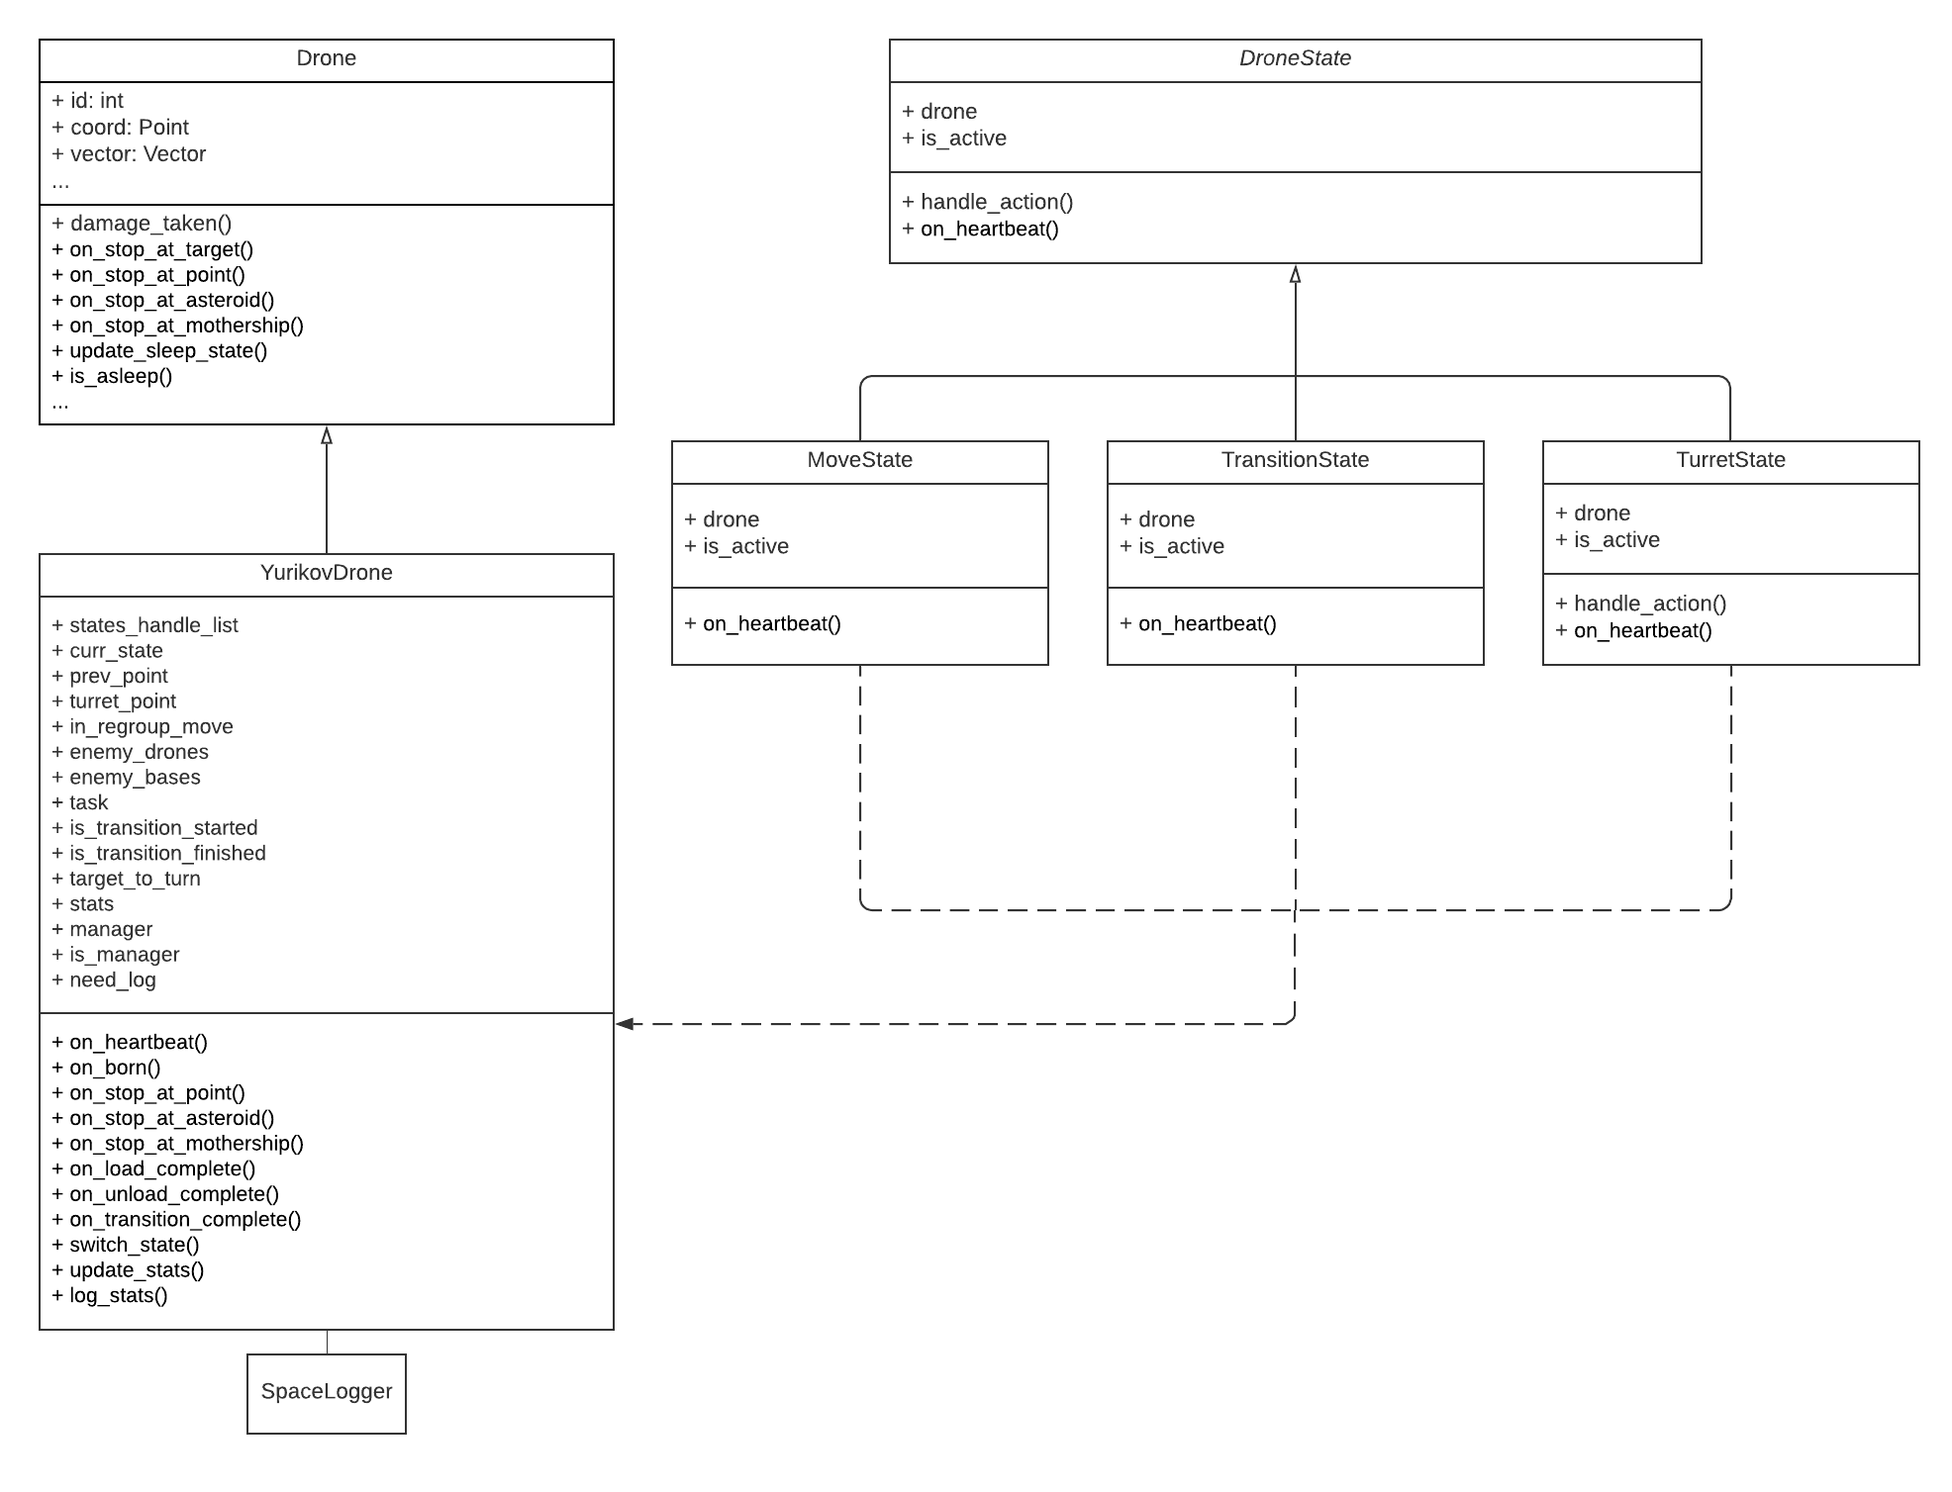
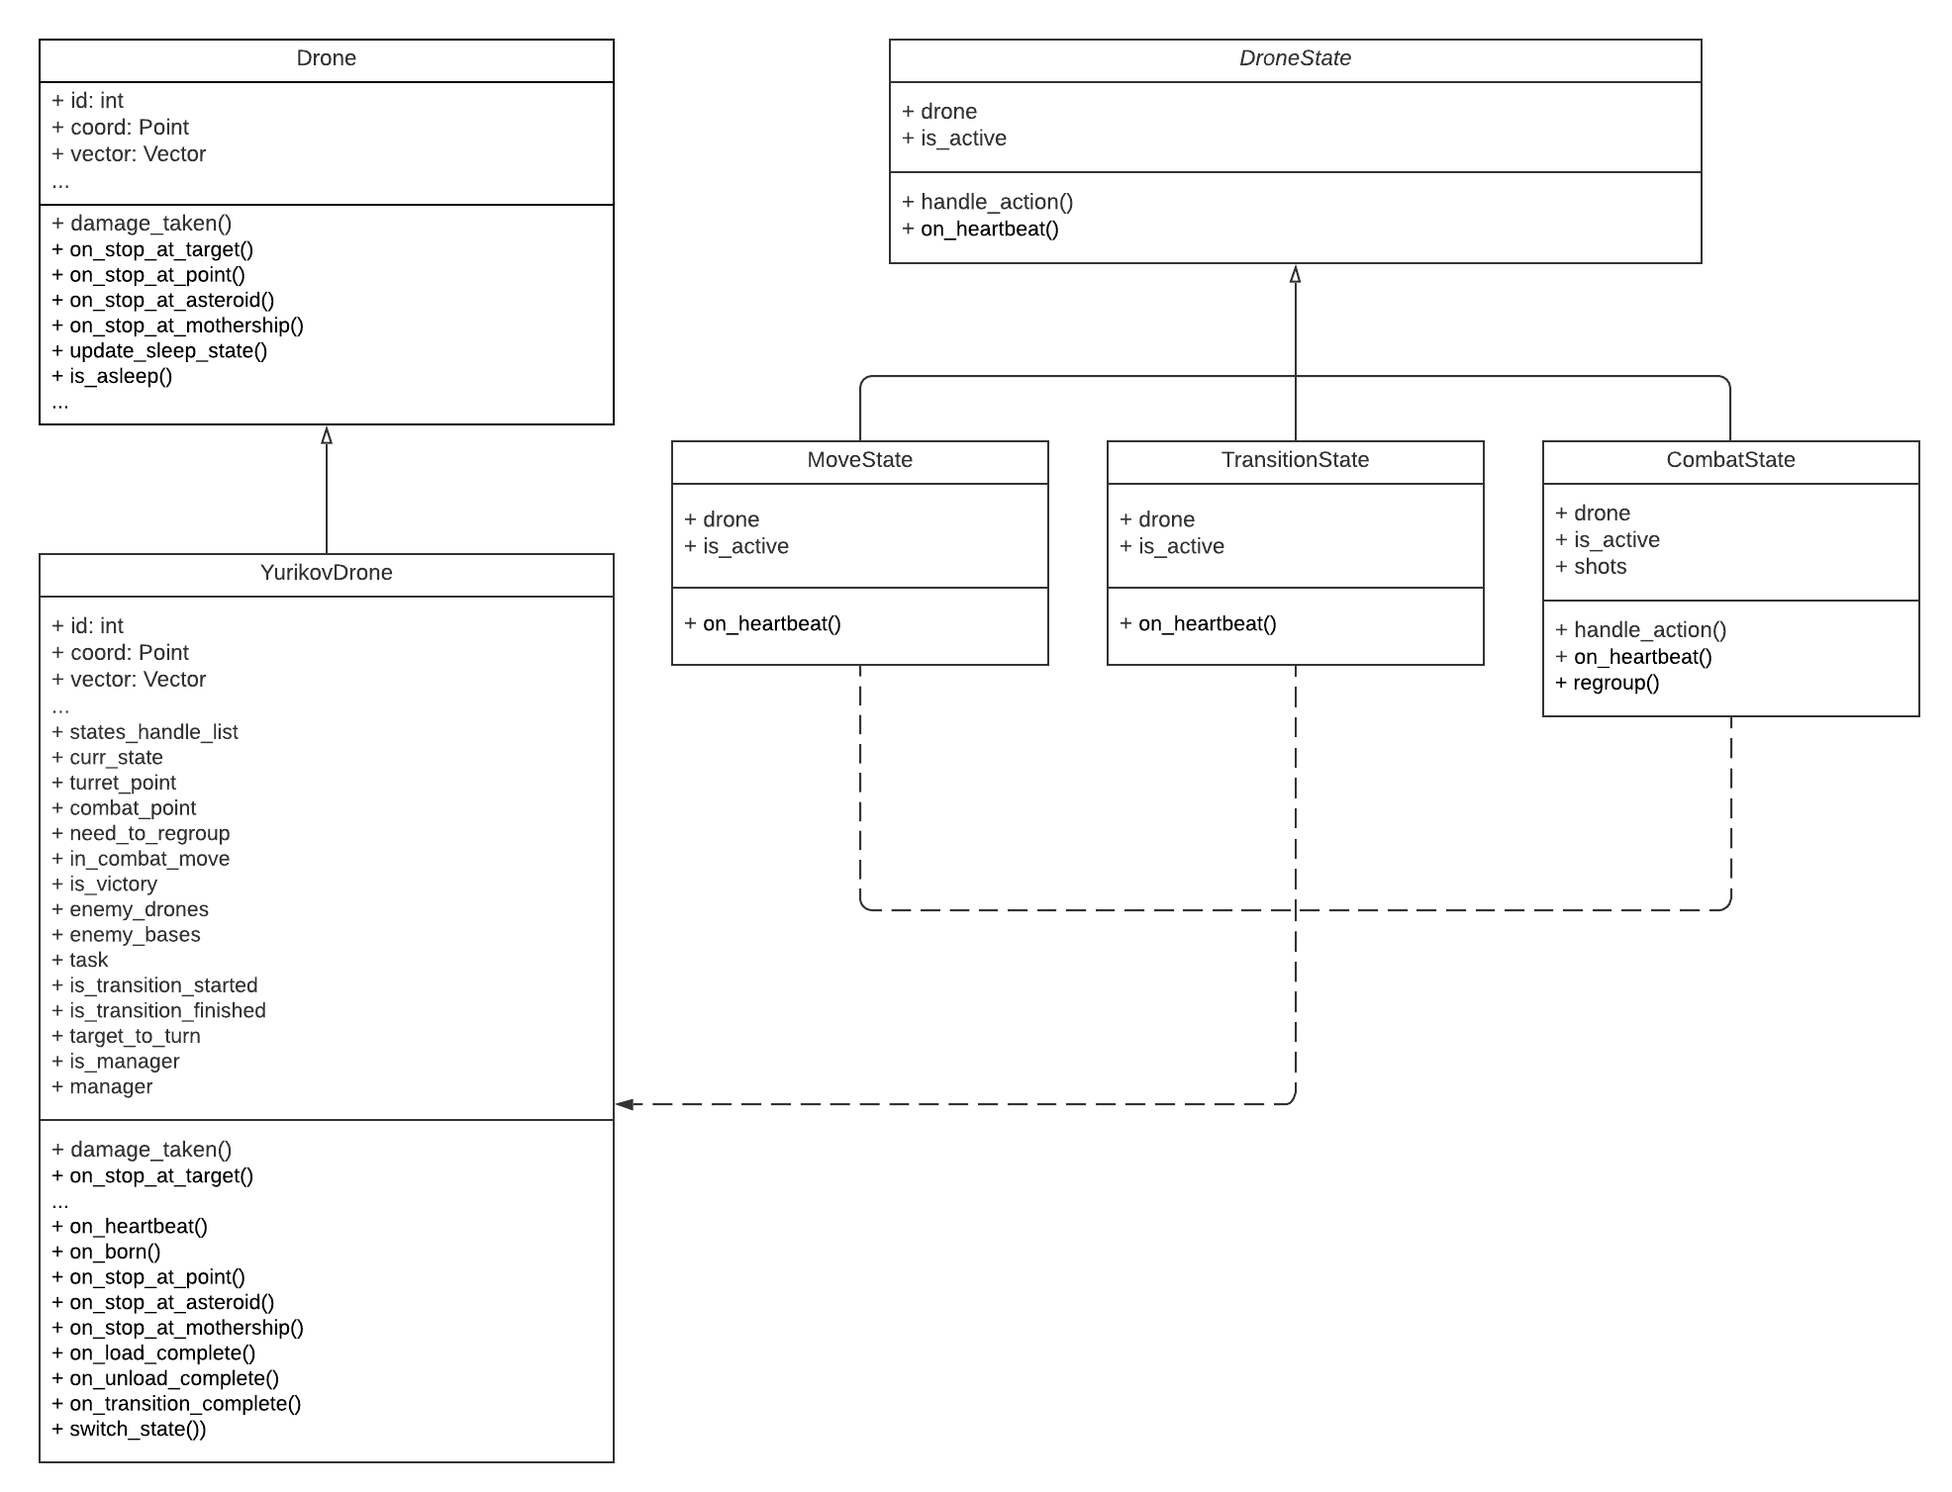
Updated yurikov.py file and UML class diagram

Changed region(s): [[0.0309, 0.4052, 0.2165, 0.9662], [0.8043, 0.374, 0.8971, 0.4675], [0.8661, 0.2805, 0.928, 0.3117]]

diff --git a/yurikov_team/yurikov.py b/yurikov_team/yurikov.py
@@ -2,7 +2,7 @@ from astrobox.core import Drone, Asteroid, MotherShip
 from robogame_engine.geometry import Point
 
 import yurikov_team.states as states
-from yurikov_team import utils
+from yurikov_team import utils, settings
 
 
 class YurikovDrone(Drone):
@@ -18,31 +18,37 @@ class YurikovDrone(Drone):
         self.states_handle_list = None
         self.curr_state = None
         self.turret_point = None
-        self.in_regroup_move = True
+        self.combat_point = None
+        self.need_to_regroup = False
+        self.in_combat_move = False
+        self.is_victory = False
         self.enemy_drones = None
         self.enemy_bases = None
         self.task = None
         self.is_transition_started = False
         self.is_transition_finished = True
         self.target_to_turn = None
-        self.stats = None
 
         _temp_managers_list = [mate for mate in self.teammates if mate.is_manager]
         if _temp_managers_list:
             self.is_manager = False
+            self.manager = _temp_managers_list[0]
         else:
             self.is_manager = True
+            self.manager = self
 
     def on_heartbeat(self) -> None:
         """
         Выполняется при каждом шаге игры.
 
         Если текущее состояние дрона деактивировано:
-            ! меняет сстояние.
+            меняет сстояние.
 
-        Обновляет значение признаков оптимальности перемещения дрона.
+        Если дрону не назначена цель, получает её из обработки внутри состояния.
+        Если текущее состояние - "сражение", то выбирает позицию для перемещения и движется к ней.
 
-        Вызывает метод состояния дрона on_heartbeat()
+        Вызывает метод состояния дрона on_heartbeat().
+
         (подробнее см. docstrings методов состояний в states.py).
 
         :return: None
@@ -51,8 +57,19 @@ class YurikovDrone(Drone):
         if not self.curr_state.is_active:
             self.switch_state()
 
-        if self.target is None:
+        if self.target is None and not self.in_combat_move:
             self.target = self.curr_state.handle_action()
+
+            if isinstance(self.curr_state, states.CombatState):
+                self.in_combat_move = True
+                _extra_dist = self.turret_point.distance_to(self.my_mothership)
+                _danger_dist = self.gun.shot_distance
+                _from_mother_to_enemy = self.my_mothership.distance_to(self.target) - _extra_dist
+                if _from_mother_to_enemy <= _danger_dist and len(self.manager.enemy_drones) > 3:
+                    self.move_at(self.turret_point)
+                else:
+                    self.combat_point = utils.get_combat_point(self, self.target)
+                    self.move_at(self.combat_point)
 
         self.curr_state.on_heartbeat()
 
@@ -60,78 +77,72 @@ class YurikovDrone(Drone):
         """
         Вызывается единожды при "рождении" дрона.
 
-        Если дрон является "менеджером",
-        то добавляет всем астероидам на сцене атрибут worker.
-        В ходе игры распределение следующее: на 1 астероиде может работать 1 дрон.
-
-        Формирует два списка: с объектами вражеских дронов и вражеских баз.
+        Если дрон является "менеджером":
+            добавляет всем астероидам на сцене атрибут worker
+                (в ходе игры распределение следующее: на 1 астероиде может работать 1 дрон);
+            формирует два списка: с объектами вражеских дронов и вражеских баз.
 
         Устанавливает задачу для перемещения - "на загрузку".
         Добавляет в список состояний объекты классов состояний (подробнее о классах см. docstrings классов).
         Вызывает метод переключения состояния switch_state()
         (подробнее см. docstrings метода).
 
-        Получает точку "турели" около своей базы и движется к ней.
+        Получает точку "турели" около своей базы.
 
         :return: None
         """
 
-        self.prev_point = Point(self.coord.x, self.coord.y)
-
         if self.is_manager:
             for asteroid in self.asteroids:
                 asteroid.worker = None
+            self.enemy_drones = [drone for drone in self.scene.drones if self.team != drone.team]
+            self.enemy_bases = [m_ship for m_ship in self.scene.motherships if m_ship != self.my_mothership]
 
-        self.stats = {
-            'empty_range': 0.0,
-            'fully_range': 0.0,
-            'not_fully_range': 0.0,
-        }
-
-        self.enemy_drones = [drone for drone in self.scene.drones if self.team != drone.team]
-        self.enemy_bases = [m_ship for m_ship in self.scene.motherships if m_ship != self.my_mothership]
         self.task = states.LOAD_TASK
 
-        if len(self.scene.teams) <= 2 and self.is_manager:
-            self.states_handle_list = [states.MoveState(self), states.TransitionState(self)]
+        if settings.DRONES_AMOUNT > 5:
+            for _id in range(6, settings.DRONES_AMOUNT):
+                if self.id % _id == 0:
+                    self.states_handle_list = [states.MoveState(self), states.TransitionState(self)]
+                    break
         else:
-            self.states_handle_list = [states.TurretState(self), states.MoveState(self), states.TransitionState(self)]
+            self.states_handle_list = [states.CombatState(self), states.MoveState(self), states.TransitionState(self)]
 
         self.switch_state()
-        self.turret_point = utils.get_turret_point(self, self.id)
-        self.move_at(self.turret_point)
+
+        self.turret_point = utils.get_turret_point(self)
 
     def on_stop_at_point(self, target: Point) -> None:
         """
         При остановке у точки пространства.
 
-        Если текущее состояние - "турель":
-            ! устанавливает флаг "в процессе перегруппировки" в False.
+        Если текущее состояние - "сражение":
+            устанавливает флаг "в боевом перемещении" в False.
 
         :param target: Point, точка, у которой остановился дрон
         :return: None
         """
 
-        if isinstance(self.curr_state, states.TurretState):
-            self.in_regroup_move = False
+        if isinstance(self.curr_state, states.CombatState):
+            self.in_combat_move = False
 
     def on_stop_at_asteroid(self, asteroid: Asteroid) -> None:
         """
         При остановке у астероида.
 
-        Если текущее состояние - "турель":
-            ! устанавливает флаг "в процессе перегруппировки" в False.
+        Если текущее состояние - "сражение":
+            устанавливает флаг "в боевом перемещении" в False.
         Иначе:
-            ! деактивирует текущее состояние;
-            ! устанавливает флаг начала загрузки/выгрузки ресурса в значение True;
-            ! начинает загрузку ресурса в трюм.
+            деактивирует текущее состояние;
+            устанавливает флаг начала загрузки/выгрузки ресурса в значение True;
+            начинает загрузку ресурса в трюм.
 
         :param asteroid: Asteroid object, объект астероида, у которого остановился дрон
         :return: None
         """
 
-        if isinstance(self.curr_state, states.TurretState):
-            self.in_regroup_move = False
+        if isinstance(self.curr_state, states.CombatState):
+            self.in_combat_move = False
         else:
             self.switch_state()
             self.is_transition_started = True
@@ -141,23 +152,23 @@ class YurikovDrone(Drone):
         """
         При остановке у базы.
 
-        Если текущее состояние - "турель":
-            ! движется к точки "турели".
+        Если текущее состояние - "сражение":
+            устанавливает флаг "в боевом перемещении" в False.
         Иначе:
-            ! деактивирует текущее состояние;
-            ! устанавливает флаг начала загрузки/выгрузки ресурса в значение True;
+            деактивирует текущее состояние;
+            устанавливает флаг начала загрузки/выгрузки ресурса в значение True;
 
-            ! если объект базы - союзный:
+            если объект базы - союзный:
                 начинает выгрузку ресурса на базу;
-            ! иначе:
+            иначе:
                 начинает загрузку ресурса с базы.
 
         :param mothership: MotherShip object, объект базы
         :return: None
         """
 
-        if isinstance(self.curr_state, states.TurretState):
-            self.move_at(self.turret_point)
+        if isinstance(self.curr_state, states.CombatState):
+            self.in_combat_move = False
         else:
             self.switch_state()
             self.is_transition_started = True
@@ -195,6 +206,7 @@ class YurikovDrone(Drone):
         Сменяет текущее состояние.
         Устанавливает флаг начала загрузки/выгрузки ресурса в значение False.
         Устанавливает флаг завершения загрузки/выгрузки ресурса в значение True.
+
         :return: None
         """
 
@@ -207,12 +219,12 @@ class YurikovDrone(Drone):
         Метод переключения состояния.
 
         Если текущее состояние не назначено (начало игры):
-            ! переключает на состояние "турель" и удаляет
+            переключает на состояние "сражение" и удаляет
                 данное состояние из списка состояний.
 
         Иначе:
-            ! если переключает текущее состояние на следующее:
-                "перекачка ресурса" или "турель" -> "перемещение";
+            если переключает текущее состояние на следующее:
+                "перекачка ресурса" или "сражение" -> "перемещение";
                 "перемещение" -> "перекачка ресурса".
 
         Активирует текущее состояние.
@@ -222,11 +234,10 @@ class YurikovDrone(Drone):
 
         if self.curr_state is None:
             self.curr_state = self.states_handle_list[0]
-            if isinstance(self.curr_state, states.TurretState):
+            if isinstance(self.curr_state, states.CombatState):
                 self.states_handle_list.pop(0)
         else:
-            self.curr_state.is_active = False
-            if isinstance(self.curr_state, states.TurretState) or isinstance(self.curr_state, states.TransitionState):
+            if isinstance(self.curr_state, states.CombatState) or isinstance(self.curr_state, states.TransitionState):
                 self.curr_state = self.states_handle_list[0]
             else:
                 self.curr_state = self.states_handle_list[1]

diff --git a/stage_04_soldiers/game.py b/stage_04_soldiers/game.py
@@ -26,6 +26,3 @@ if __name__ == '__main__':
     team_4 = [DevastatorDrone() for _ in range(settings.DRONES_AMOUNT)]
 
     scene.go()
-
-# TODO - Пока ваши дроны не выигрывают. Кроме того, время игры ограничено 17000 шагами
-#  Победитель определяется из живых баз по количеству элериума
